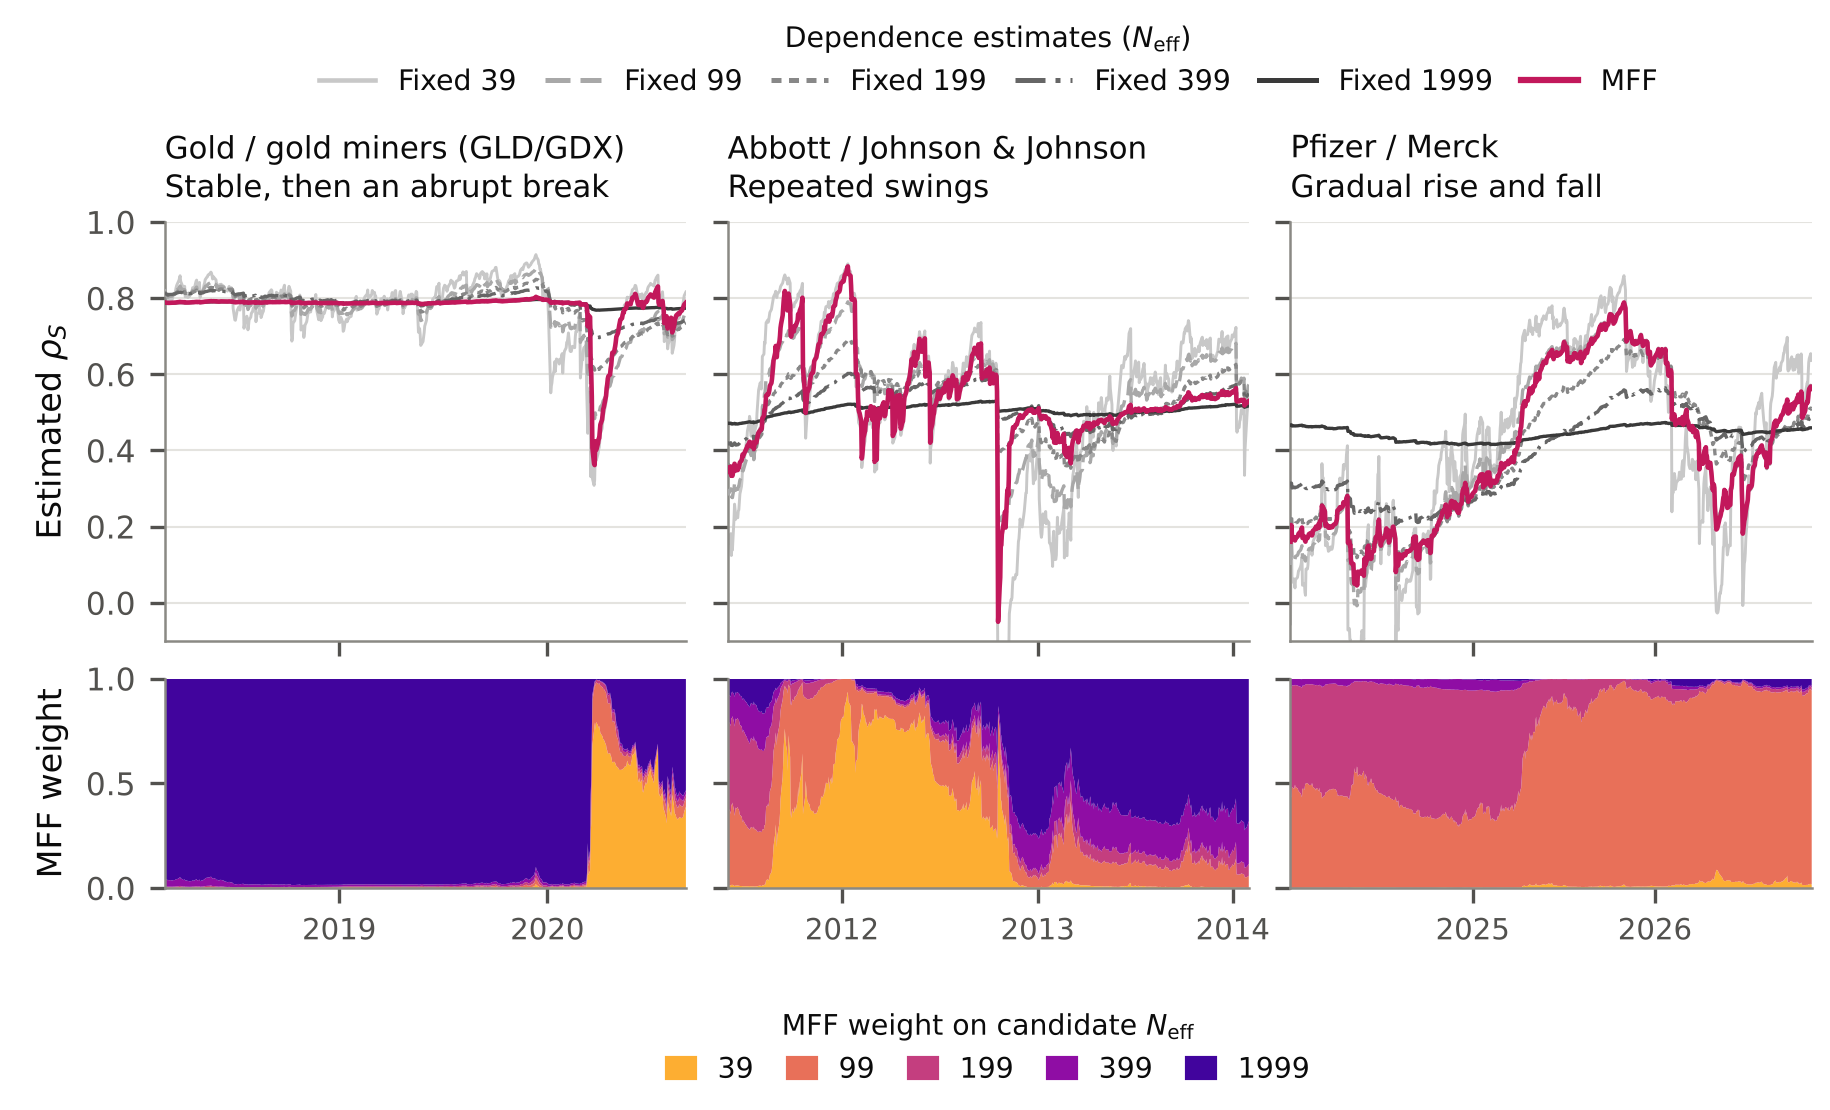
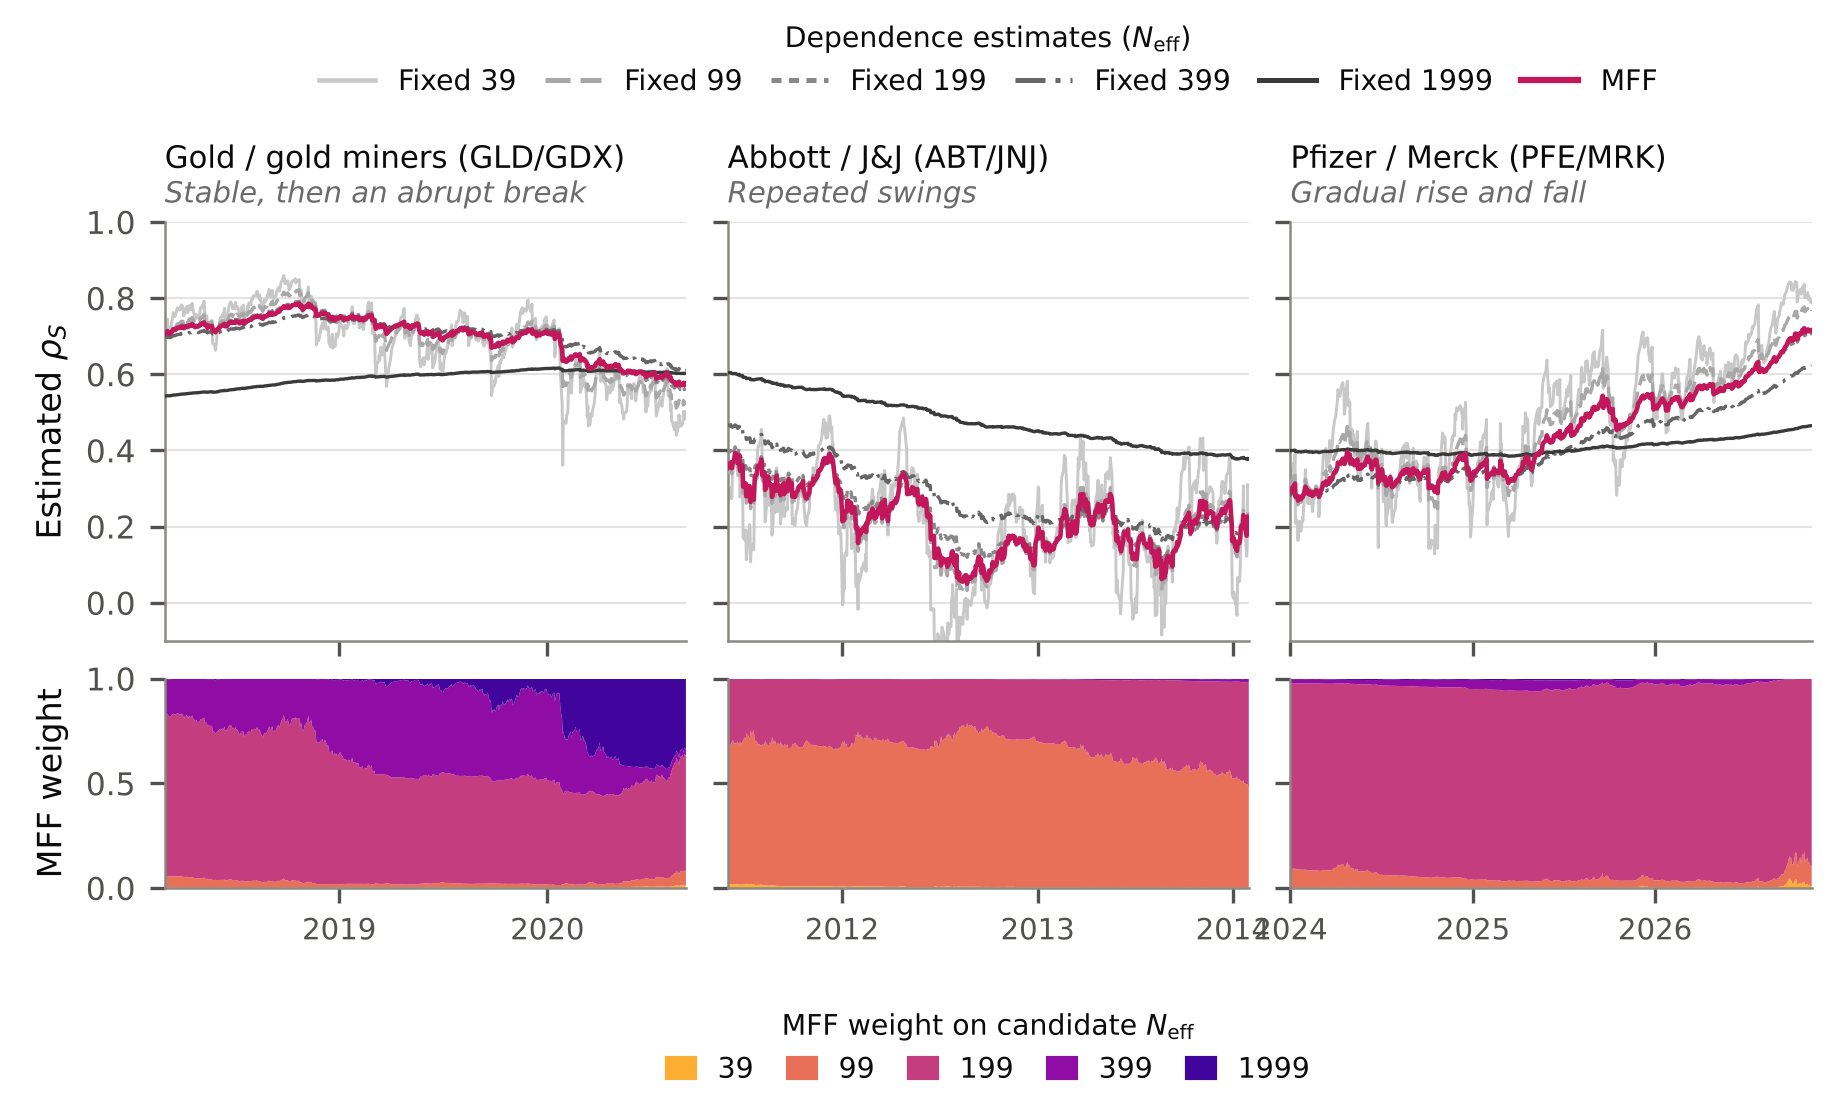
6.6 examples figure: tickers in the titles, scenario descriptions in italics (from the Chapter 2 branch)
Claude-Session: https://claude.ai/code/session_011LH6MHfBJAMQDu7UQqGgRH

diff --git a/experiments/6.6-real-data/plots_examples.py b/experiments/6.6-real-data/plots_examples.py
@@ -16,8 +16,8 @@ MEMORY = memory_colours(FIX)
 FIXED_LINES = [(39, "#C8C8C8", "-", 0.7), (99, "#A8A8A8", (0, (5, 2)), 0.8), (199, "#888888", (0, (2, 1.5)), 0.8),
                (399, "#666666", (0, (6, 2, 1, 2)), 0.8), (1999, "#3A3A3A", "-", 0.8)]   # light = short memory
 EXAMPLES = [("GLD_GDX", "2018-03-01", "2020-08-31", "Gold / gold miners (GLD/GDX)", "Stable, then an abrupt break"),
-            ("ABT_JNJ", "2011-06-01", "2014-01-31", "Abbott / Johnson & Johnson", "Repeated swings"),
-            ("PFE_MRK", "2024-01-01", "2026-11-11", "Pfizer / Merck", "Gradual rise and fall")]
+            ("ABT_JNJ", "2011-06-01", "2014-01-31", "Abbott / J&J (ABT/JNJ)", "Repeated swings"),
+            ("PFE_MRK", "2024-01-01", "2026-11-11", "Pfizer / Merck (PFE/MRK)", "Gradual rise and fall")]
 SCATTER_PAIR = "GLD_GDX"
 SCATTER_WINDOWS = [("2019-03-01", "2019-04-15", "Calm: 1 Mar to 15 Apr 2019"), ("2020-03-01", "2020-04-15", "Break: 1 Mar to 15 Apr 2020")]
 
@@ -34,7 +34,8 @@ def example_column(a, b, x, title, subtitle):
     a.plot(d, x.rho_mff_t, color=STRATEGY["mff"], lw=1.1, zorder=9)
     a.set_ylim(-0.1, 1.0)
     a.grid(True, axis="y", color=GRID, lw=0.5, zorder=0)
-    a.set_title(f"{title}\n{subtitle}", fontsize=7.4, linespacing=1.25)
+    a.set_title(title, fontsize=7.4, pad=13)
+    a.text(0, 1.03, subtitle, transform=a.transAxes, fontsize=7.0, style="italic", color="#6b6b6b", ha="left", va="bottom")
     b.stackplot(d, *[x[f"wt_{k}"] for k in FIX], colors=[MEMORY[k] for k in FIX], lw=0)
     b.set_ylim(0, 1)
     b.set_yticks([0, 0.5, 1])
